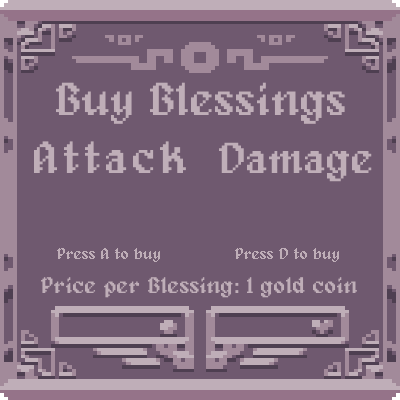
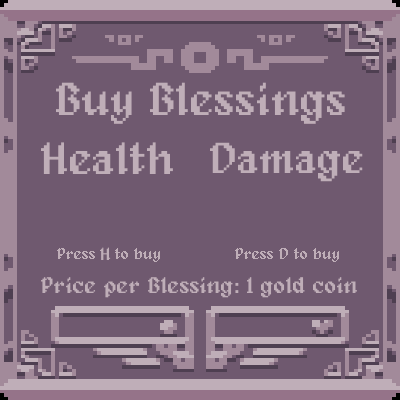
Start screen added

diff --git a/WPFGame/Worlds/MenuWorld.cs b/WPFGame/Worlds/MenuWorld.cs
@@ -6,6 +6,7 @@ using System.Numerics;
 using System.Text;
 using System.Threading.Tasks;
 using System.Windows;
+using System.Windows.Controls;
 using System.Windows.Input;
 using System.Windows.Media;
 using System.Windows.Media.Imaging;
@@ -20,6 +21,7 @@ namespace WPFGame.Worlds
     {
         private int DungeonDoorCenter = 600;
         private int ChurchDoorCenter = 100;
+        private bool healthBought = false, damageBought = false;
 
         public MenuWorld() : base()
         {
@@ -82,6 +84,31 @@ namespace WPFGame.Worlds
             }
         }
 
+        public void inChurchOperations()
+        {
+            if (damageBought && Keyboard.IsKeyUp(Key.D)) damageBought = false;
+            if (healthBought && Keyboard.IsKeyUp(Key.H)) healthBought = false;
+
+            if (Keyboard.IsKeyDown(Key.H) && !healthBought)
+            {
+                if (WorldUser.coins > 0)
+                {
+                    WorldUser.MaxHealth += 1;
+                    WorldUser.coins -= 1;
+                    healthBought = true;
+                }
+            }
+            else if (Keyboard.IsKeyDown(Key.D) && !damageBought)
+            {
+                if (WorldUser.coins > 0)
+                {
+                    WorldUser.MaxDamage += 1;
+                    WorldUser.coins -= 1;
+                    damageBought = true;
+                }
+            }
+        }
+
         public void tryDrawChurchMenu(WriteableBitmap surface)
         {
             if (InChurch)
@@ -90,9 +117,8 @@ namespace WPFGame.Worlds
 
                 using (Graphics g = Graphics.FromImage(menu))
                 {
-                    //g.Clear(System.Drawing.Color.Transparent);
                     g.DrawString(WorldUser.MaxHealth.ToString(), new Font("Times New Roman", 34), System.Drawing.Brushes.Indigo, new System.Drawing.Point(75, 190));
-                    g.DrawString(WorldUser.maxDamage.ToString(), new Font("Times New Roman", 34), System.Drawing.Brushes.Indigo, new System.Drawing.Point(270, 190));
+                    g.DrawString(WorldUser.MaxDamage.ToString(), new Font("Times New Roman", 34), System.Drawing.Brushes.Indigo, new System.Drawing.Point(270, 190));
                     IntPtr hBitmap = menu.GetHbitmap();
                     try
                     {
@@ -131,6 +157,7 @@ namespace WPFGame.Worlds
         {
             base.GameTick();
             tryEnteringBuilding();
+            if(InChurch) inChurchOperations();
         }
     }
 }

diff --git a/WPFGame/GameEngine.cs b/WPFGame/GameEngine.cs
@@ -3,8 +3,11 @@ using System.Collections.Generic;
 using System.Linq;
 using System.Text;
 using System.Threading.Tasks;
+using System.Windows;
 using System.Windows.Input;
+using System.Windows.Media;
 using System.Windows.Media.Imaging;
+using WPFGame.Data;
 using WPFGame.Entities;
 using WPFGame.Worlds;
 
@@ -17,7 +20,7 @@ namespace WPFGame
         public World CurrentWorld;
 
         public int level = 0, numEnemies = 0;
-        private bool pause = false;
+        public bool pause = false, dead = false, restart = false;
         private WorldCreator menuCreator;
         private WorldCreator dungeonCreator;
         private RandomEnemyCreator RandomEnemy;
@@ -90,6 +93,27 @@ namespace WPFGame
             }
         }
 
+        public void deathOperations(WriteableBitmap surface)
+        {
+            pause = true;
+            CurrentWorld.GameTimer.Reset();
+            CurrentWorld.previousGameTick = CurrentWorld.GameTimer.Elapsed;
+            BitmapImage DeathMessageImage = new BitmapImage(new Uri(StageGraphics.YouDied, UriKind.Relative));
+            WriteableBitmap DeathMessage = new WriteableBitmap(DeathMessageImage);
+
+            surface.Blit(new Point(StageGraphics.WindowWidth/2 - DeathMessage.PixelWidth/2, StageGraphics.WindowHeight/2 - DeathMessage.PixelHeight/2), DeathMessage,
+                new Rect(new Size(DeathMessage.PixelWidth, DeathMessage.PixelHeight)), Colors.White, WriteableBitmapExtensions.BlendMode.Alpha );
+
+            if (Keyboard.IsKeyDown(Key.Escape))
+            {
+                Application.Current.Shutdown();
+            }
+            else if (Keyboard.IsKeyDown(Key.Enter))
+            {
+                restart = true;
+            }
+        }
+
         public void gameEngineTick()
         {
             ChangeWorldIfNeeded();
@@ -101,7 +125,11 @@ namespace WPFGame
 
         public void FrameEvents(WriteableBitmap surface)
         {
-            
+
+            if (user.CurrentHealth <= 0 && currentworldtype == WorldType.dungeon)
+                dead = true;
+            if (dead == true)
+                deathOperations(surface);
 
             if (!pause)
             {

diff --git a/WPFGame/MainWindow.xaml.cs b/WPFGame/MainWindow.xaml.cs
@@ -28,6 +28,7 @@ namespace WPFGame
         int floor;
         WriteableBitmap surface;
         GameEngine game;
+        private bool gamestarted = false;
 
         public MainWindow()
         {
@@ -51,15 +52,29 @@ namespace WPFGame
             ScreenImage.Source = surface;
             floor = (int)(StageGraphics.FloorPos.Y);
 
+            BitmapImage Image = new BitmapImage(new Uri(StageGraphics.StartScreen, UriKind.Relative));
+            WriteableBitmap Message = new WriteableBitmap(Image);
+
+            surface.Blit(new Point(0,0), Message, new Rect(new Size(Message.PixelWidth, Message.PixelHeight)), Colors.White, WriteableBitmapExtensions.BlendMode.Alpha);
+
             game = new GameEngine();
-            game.StartGame();
 
             CompositionTarget.Rendering += NextFrameEvent;
         }
 
         private void NextFrameEvent(object sender, EventArgs e)
         {
-            game.FrameEvents(surface);
+            if (!gamestarted && Keyboard.IsKeyDown(Key.Enter))
+            {
+                game.StartGame();
+                gamestarted = true;
+            }
+            if (game.restart == true)
+            {
+                game = new GameEngine();
+                game.StartGame();
+            }
+            if(gamestarted) game.FrameEvents(surface);
         }
     }
 }

diff --git a/WPFGame/Entities/Player.cs b/WPFGame/Entities/Player.cs
@@ -19,7 +19,7 @@ namespace WPFGame.Entities
         public List<Enemy> enemies;
         public List<string> jumpAnimation;
         public List<int> attackDistances;
-        public int damageindex, MaxHealth = 100, maxDamage = 10, coins = 0;
+        public int damageindex, MaxHealth = 100, MaxDamage = 10, coins = 0;
         
         public Player() : base()
         {
@@ -35,7 +35,7 @@ namespace WPFGame.Entities
         }
 
         //maxDamage divided by attackingFpa so total damage equals to maxDamage;
-        public void refreshStats() { CurrentHealth = MaxHealth; damage = maxDamage/attackingFpa; }
+        public void refreshStats() { CurrentHealth = MaxHealth; damage = MaxDamage/attackingFpa; }
 
         public bool enemyFacingMe(GameEntity entity)
         {

diff --git a/WPFGame/HelperClasses/stageGraphics.cs b/WPFGame/HelperClasses/stageGraphics.cs
@@ -31,6 +31,8 @@ namespace WPFGame.Data
         public static string EnterDoorMessage = "../../VisualAssets/Door/Door_text_white.png";
         public static string DoorGraphic = "../../VisualAssets/Door/door.png";
         public static string ChurchMenu = "../../VisualAssets/Churchmenu/upgrade_menu.png";
+        public static string YouDied = "../../VisualAssets/Door/You_Died.png";
+        public static string StartScreen = "../../VisualAssets/Door/StartMenu.png";
 
         public static string coin = "../../VisualAssets/Coin/Coin.png";
 

diff --git a/WPFGame/Entities/Mandrake.cs b/WPFGame/Entities/Mandrake.cs
@@ -11,7 +11,7 @@ namespace WPFGame.Entities
     {
         public Mandrake() : base()
         {
-            CurrentHealth = 30;
+            CurrentHealth = 70;
             damage = (int)((double)2 / attackingFpa);
         }
 
